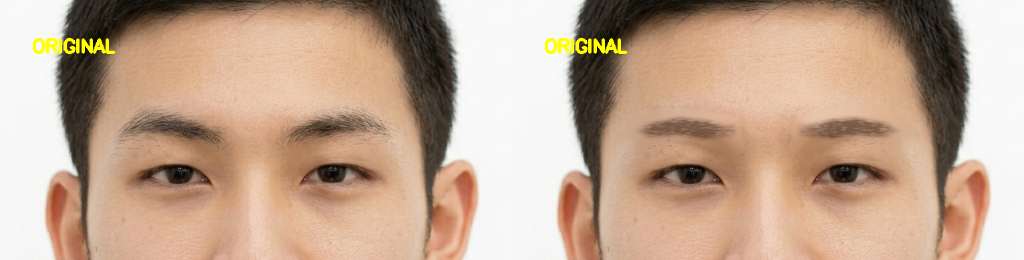
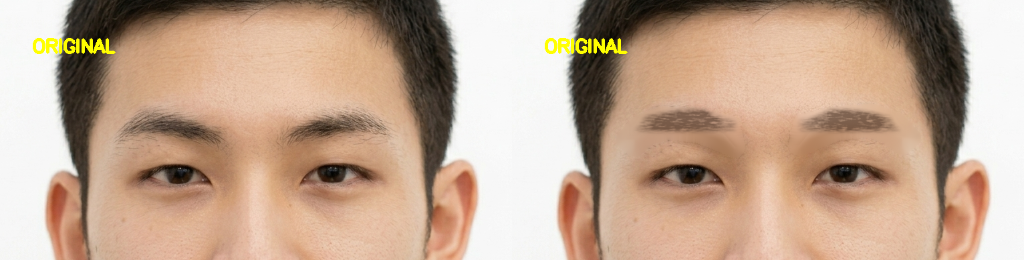
fix: 下辺を直線に保ち、上辺にのみ眉山を乗せる
## 問題
センターラインを法線方向にオフセットする方式では、眉山で下辺も
一緒に上がってくぼんで見えていた。

## 修正
centerline offset 方式 → 直接 upper/lower を構築する方式に変更:

1. **下辺 (lower)**: head から tail への直線
2. **上辺 (upper)**: 下辺 - (厚さ taper + 眉山バンプ) で上方向へ
3. **眉山バンプ**: _peak_bump() - 非対称ガウシアン
   - t < peak_t: sigma_left (緩やか)
   - t > peak_t: sigma_right (急峻)

タイプ別の sigma 設定:
- corner: (0.22, 0.15) 頭側広く尻側狭い
- arch: (0.30, 0.25) 緩やかに
- natural: (0.30, 0.28) ほぼ対称
- straight: (0.35, 0.30) 浅く広く
- parallel: (0.40, 0.40) ほぼ直線

結果: 眉山が明確に上に突き出し、下辺は眉骨ラインに沿う直線を維持

https://claude.ai/code/session_01DrQrG5SarFHcMqwHeQoVJp

Changed region(s): [[0.7812, 0.4, 0.875, 0.5538], [0.625, 0.4, 0.7188, 0.5538]]

diff --git a/loadmap/1-virtual-makeup/1-5-eyebrow/main.py b/loadmap/1-virtual-makeup/1-5-eyebrow/main.py
@@ -434,12 +434,30 @@ def _taper(t: float, sharp: bool = False) -> float:
             return 0.35 * (1 - x) + 0.1 * x
 
 
+def _peak_bump(t: float, peak_t: float, peak_height: float,
+               sigma_left: float = 0.25, sigma_right: float = 0.18) -> float:
+    """眉山の盛り上がり量を計算（非対称ガウシアンバンプ）
+
+    t < peak_t: sigma_left (緩やかな上昇)
+    t > peak_t: sigma_right (急峻な下降)
+
+    返り値: t 位置でのピーク上昇量（0 〜 peak_height）
+    """
+    import math
+    sigma = sigma_left if t < peak_t else sigma_right
+    x = (t - peak_t) / max(sigma, 1e-6)
+    return peak_height * math.exp(-x * x)
+
+
 def generate_brow_polygon(anchors: dict, brow_type: str) -> np.ndarray:
     """眉タイプに応じた上下ラインを生成してポリゴン頂点列を返す
 
-    - Catmull-Romスプラインで滑らかなセンターライン
-    - 接線→法線方向にオフセットで自然な厚み
-    - タイプ別テーパー: sharp なタイプは先端 0 収束、rounded は丸留め
+    **下辺は直線**（眉骨ラインに沿う）、**上辺だけに眉山を乗せる**方式。
+    これにより「眉山で下辺がくぼむ」現象を防ぐ。
+
+    - 下辺: head から tail への直線
+    - 上辺: 下辺 - (thickness(taper) + peak_bump) で上方向へ盛る
+    - 眉山は非対称ガウシアンで、頭側を平らに保つ
     """
     params = EYEBROW_TYPES[brow_type]
 
@@ -451,48 +469,48 @@ def generate_brow_polygon(anchors: dict, brow_type: str) -> np.ndarray:
     if length_ratio != 1.0:
         tail = head + (tail - head) * length_ratio
 
+    # tail_height_ratio: 下辺の末端を少し下げる
     tail[1] += eye_h * params["tail_height_ratio"]
 
-    peak_t = params["peak_position"]
-    peak_x = head[0] + (tail[0] - head[0]) * peak_t
-    peak_y = head[1] - eye_h * params["peak_height_ratio"]
-    peak = np.array([peak_x, peak_y])
-
-    # 頭側は平ら、眉山で折れ、眉尻に下降する非対称カーブ
-    # peak_position が大きいほど眉山がtail寄りになる
-    n = 120
-    # head_flat: peak_position によって調整（peak が遠いほど平らな区間を長く）
-    head_flat = 0.5 + (params["peak_position"] - 0.5) * 0.5
-    head_flat = max(0.35, min(0.7, head_flat))
-    center_line = _asymmetric_centerline(head, peak, tail, n=n, head_flat=head_flat)
-
     base_thickness = eye_h * params["thickness_ratio"]
+    peak_height = eye_h * params["peak_height_ratio"]
+    peak_t = params["peak_position"]
 
-    # 接線→法線
-    tangents = np.zeros_like(center_line)
-    tangents[0] = center_line[1] - center_line[0]
-    tangents[-1] = center_line[-1] - center_line[-2]
-    tangents[1:-1] = (center_line[2:] - center_line[:-2]) / 2
-    lengths = np.linalg.norm(tangents, axis=1, keepdims=True)
-    lengths = np.maximum(lengths, 1e-6)
-    tangents /= lengths
-    normals = np.stack([-tangents[:, 1], tangents[:, 0]], axis=1)
-
-    # タイプ別テーパー
     sharp = brow_type in SHARP_BROW_TYPES
 
+    n = 120
     ts = np.linspace(0, 1, n)
-    upper = np.zeros_like(center_line)
-    lower = np.zeros_like(center_line)
+
+    # 下辺: head から tail への直線
+    lower = np.zeros((n, 2))
     for i, t in enumerate(ts):
-        half_thick = base_thickness * 0.5 * _taper(t, sharp=sharp)
-        upper[i] = center_line[i] - normals[i] * half_thick
-        lower[i] = center_line[i] + normals[i] * half_thick
+        lower[i] = head + (tail - head) * t
+
+    # 上辺: 下辺から上方向に (厚さ + 眉山バンプ) で盛る
+    # 非対称ガウシアンで頭側を緩やか、尻側を急に
+    # タイプ別にピーク形状を調整
+    if brow_type == "corner":
+        sigma_left, sigma_right = 0.22, 0.15  # 頭側やや広く、尻側狭い
+    elif brow_type == "arch":
+        sigma_left, sigma_right = 0.30, 0.25  # 広めで緩やか
+    elif brow_type == "natural":
+        sigma_left, sigma_right = 0.30, 0.28  # ほぼ対称
+    elif brow_type == "straight":
+        sigma_left, sigma_right = 0.35, 0.30  # 非常に広く浅い
+    else:  # parallel
+        sigma_left, sigma_right = 0.40, 0.40  # 超広く、ほぼ直線
+
+    upper = np.zeros((n, 2))
+    for i, t in enumerate(ts):
+        thickness = base_thickness * _taper(t, sharp=sharp)
+        bump = _peak_bump(t, peak_t, peak_height, sigma_left, sigma_right)
+        # 上辺 = 下辺 - (厚さ + 眉山盛り上がり)
+        upper[i, 0] = lower[i, 0]
+        upper[i, 1] = lower[i, 1] - (thickness + bump)
 
     # sharp タイプは先端を1点に完全収束
     if sharp:
-        upper[-1] = center_line[-1]
-        lower[-1] = center_line[-1]
+        upper[-1] = lower[-1]
 
     polygon = np.vstack([upper, lower[::-1]])
     return polygon.astype(np.int32)
